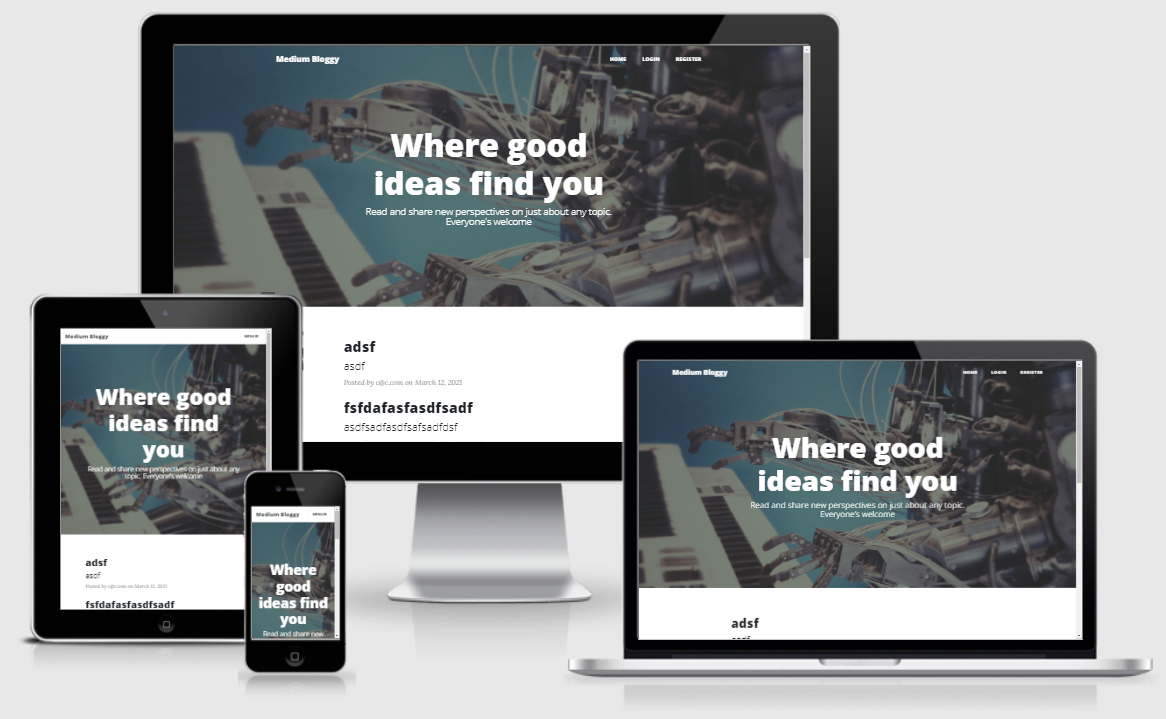
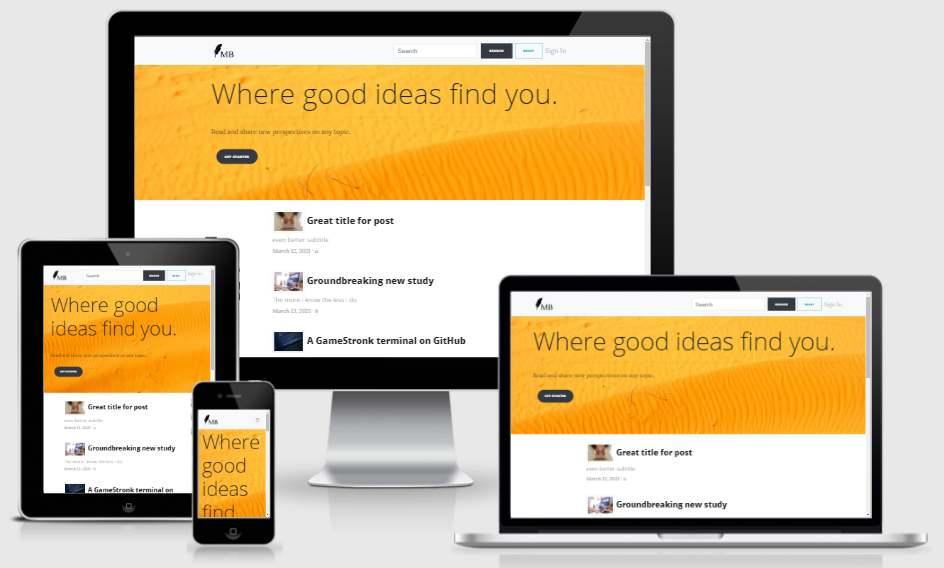
feat: Use bootstrap cards to format posts

diff --git a/templates/index.html b/templates/index.html
@@ -12,28 +12,29 @@
         </div>
     </div>
 
-    <!-- Main Content -->
-    <div class="container">
-        <div class="row">
-            <div class="col-lg-8 col-md-10 mx-auto">
-                {% for post in all_posts %}
-                <div class="post-preview mb-5">
-                    <a href="{{ url_for('show_post', post_id=post._id) }}">
-                        <h3>
-                            <img src="{{ post.img_url }}" class="img-thumbnail xsmall-image">
-                            {{post.title}}
-                        </h3>
-                        <h5 class="post-subtitle">
-                            {{post.subtitle}}
-                        </h5>
-                    </a>
-                    <p class="post-meta">{{post.date}} · {{post.author}} </p>
+    <!--Post Card Content-->
+    <div class="row">
+        <div class="container">
+            {% for post in all_posts %}
+            <div class="card mb-3">
+                <div class="row no-gutters">
+                    <div class="col-md-4">
+                        <img src="{{ post.img_url }}" class="card-img" alt="blog post image">
+                    </div>
+                    <div class="col-md-8">
+                        <div class="card-body">
+                            <a href="{{ url_for('show_post', post_id=post._id) }}">
+                                <h5 class="card-title">{{post.title}}</h5>
+                                <p class="card-text">{{ post.subtitle }}</p>
+                            </a>
+                            <p class="card-text"><small class="text-muted">{{post.date}} posted by
+                                {{post.author}}</small></p>
+                        </div>
+                    </div>
                 </div>
-                {% endfor %}
             </div>
+            {% endfor %}
         </div>
     </div>
 </main>
-<hr>
-
 {% include "footer.html" %}

diff --git a/templates/header.html b/templates/header.html
@@ -31,7 +31,9 @@
 <header>
     <nav class="navbar navbar-expand-md navbar-light fixed-top bg-light">
         <div class="container">
-            <a class="navbar-brand mb-0 h1" href="{{url_for('get_all_posts')}}"><img src="/static/img/logo.png" width="80" height="60" alt="" loading="lazy"></a>
+            <a class="navbar-brand mb-0 h1" href="{{url_for('get_all_posts')}}"><img src="/static/img/logo.png"
+                                                                                     width="80" height="60" alt=""
+                                                                                     loading="lazy"></a>
             <button class="navbar-toggler navbar-toggler-right" type="button" data-toggle="collapse"
                     data-target="#navbarResponsive" aria-controls="navbarResponsive" aria-expanded="false"
                     aria-label="Toggle navigation"><i class="fas fa-bars"></i>
@@ -48,6 +50,10 @@
                     </form>
                     <li class="nav-item">
                         <a class="nav-link" href="{{ url_for('login') }}">Sign In</a>
+                        <span class="sr-only">(current)</span>
+                    </li>
+                    <li class="nav-item">
+                        <a class="nav-link" href="{{ url_for('register') }}">Get Started</a>
                         <span class="sr-only">(current)</span>
                     </li>
                     {% else: %}

diff --git a/static/css/clean-blog.css b/static/css/clean-blog.css
@@ -4,6 +4,7 @@
  * Licensed under MIT (https://github.com/StartBootstrap/startbootstrap-clean-blog/blob/master/LICENSE)
  */
 
+
 .table-text {
   font-size: 1rem;
 }

diff --git a/app.py b/app.py
@@ -189,8 +189,8 @@ def search():
 
 
 if __name__ == "__main__":
-    app.run(host=os.environ.get("IP"),
-            port=int(os.environ.get("PORT")),
-            debug=False)
+    # app.run(host=os.environ.get("IP"),
+    #         port=int(os.environ.get("PORT")),
+    #         debug=False)
 
-    # app.run(debug=True)
+    app.run(debug=True)

diff --git a/README.md b/README.md
@@ -105,6 +105,7 @@ In keeping with the *printed newspaper* theme, minimalist colors are employed.
 
 - ![#212529](https://via.placeholder.com/15/212529/000000?text=+) `#212529` body text and background
 - ![#868e96](https://via.placeholder.com/15/868e96/000000?text=+) `#868e96` block quotes
+- ![#ffa500](https://via.placeholder.com/15/ffa500/000000?text=+) `#ffa500` main page jumbotron
 - ![#0085A1](https://via.placeholder.com/15/0085A1/000000?text=+) `#0085A1` hover
 
 <br/>
@@ -351,6 +352,8 @@ SECRET_KEY : <your_secret_key>
   [Alex Block](https://unsplash.com/photos/oH34atgXJsQ), 
   [Rohit Tandon](https://unsplash.com/photos/9wg5jCEPBsw), 
   [KiwiHug](https://unsplash.com/photos/MS9Tnh3if1o)
+  
+- [Logomakr](https://logomakr.com/) was used to create the site logo. 
 
 <br/>
 
